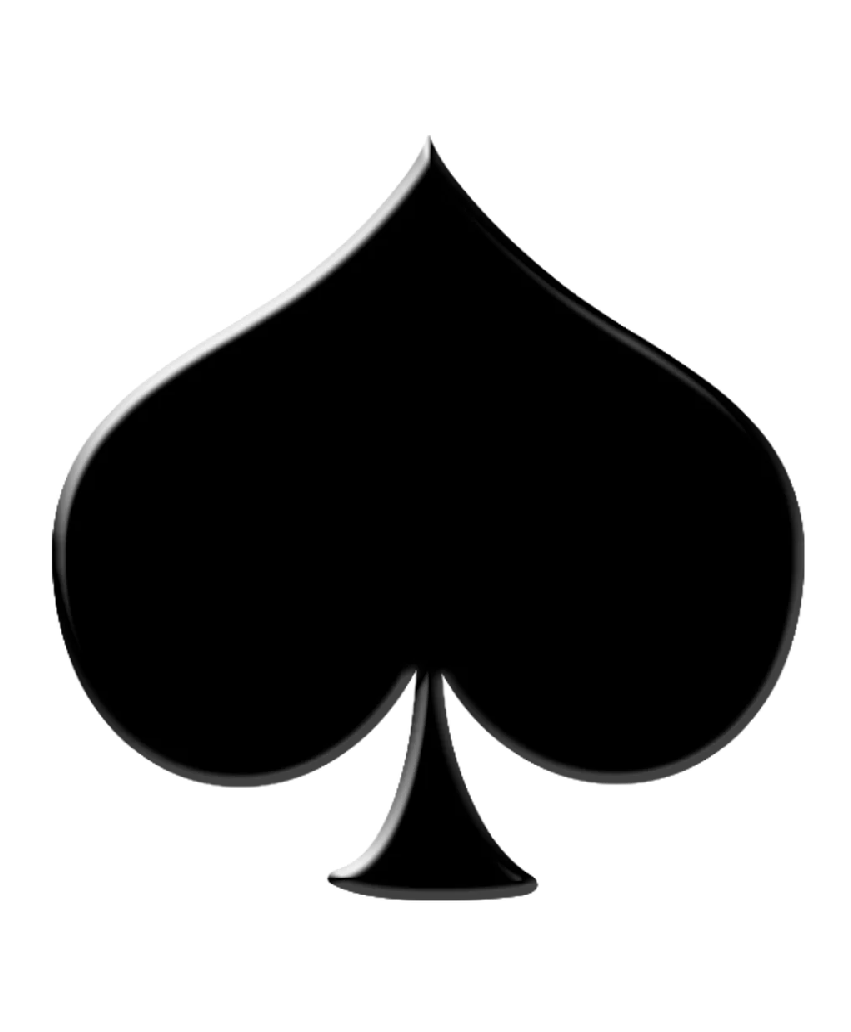
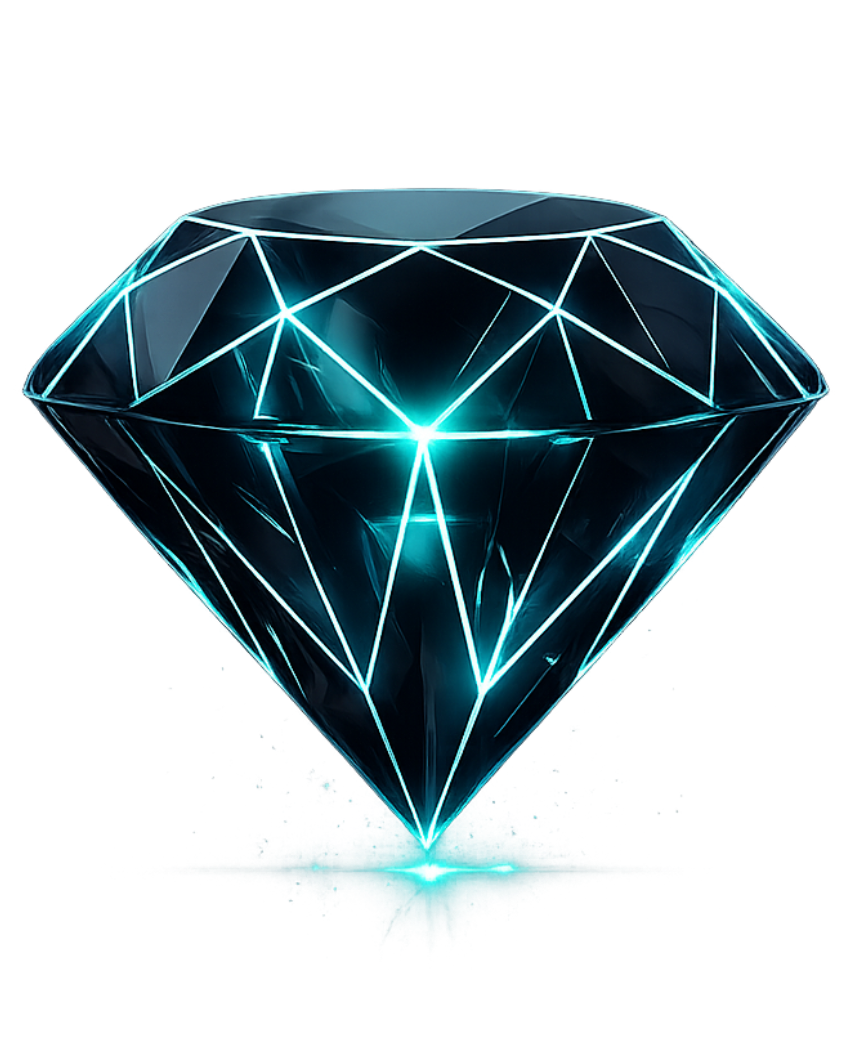
img

diff --git a/index.html b/index.html
@@ -89,10 +89,10 @@
       .home-actions {
         display: grid;
         grid-template-columns: repeat(2, minmax(0, 1fr));
-        gap: 1rem;
+        gap: 1.2rem;
         width: 100%;
         height: 100%;
-        padding: 1.2rem;
+        padding: 1.5rem 1.2rem;
         box-sizing: border-box;
       }
 
@@ -105,13 +105,17 @@
         width: 100%;
         min-height: 0;
         padding: 1rem;
-        border-radius: 28px;
+        border-radius: 16px;
         text-decoration: none;
         color: #f7f8fe;
-        background: rgba(255, 255, 255, 0.05);
-        border: 1px solid rgba(255, 255, 255, 0.09);
-        box-shadow: 0 18px 40px rgba(0, 0, 0, 0.22);
-        transition: background 0.2s ease, transform 0.2s ease, box-shadow 0.2s ease;
+        background: linear-gradient(135deg, rgba(255, 255, 255, 0.03), rgba(255, 255, 255, 0.01));
+        border: 2px solid;
+        border-color: rgba(212, 175, 55, 0.6);
+        box-shadow: 
+          0 0 25px rgba(212, 175, 55, 0.35),
+          inset 0 0 20px rgba(100, 180, 255, 0.08),
+          inset 0 1px 0 rgba(255, 255, 255, 0.1);
+        transition: all 0.3s cubic-bezier(0.4, 0, 0.2, 1);
         position: relative;
         overflow: hidden;
       }
@@ -121,7 +125,7 @@
         content: "";
         position: absolute;
         inset: 0;
-        background: linear-gradient(135deg, rgba(255,255,255,0.08), transparent 70%);
+        background: linear-gradient(135deg, rgba(255,255,255,0.06), transparent 70%);
         pointer-events: none;
       }
 
@@ -129,13 +133,41 @@
       .home-link:focus-visible,
       .link-pill:hover,
       .link-pill:focus-visible {
-        transform: translateY(-2px);
-        background: rgba(255, 255, 255, 0.1);
-        box-shadow: 0 24px 46px rgba(0, 0, 0, 0.28);
+        transform: translateY(-4px);
+        background: linear-gradient(135deg, rgba(255, 255, 255, 0.08), rgba(255, 255, 255, 0.04));
+        border-color: rgba(212, 175, 55, 0.8);
+        box-shadow: 
+          0 0 40px rgba(212, 175, 55, 0.6),
+          inset 0 0 30px rgba(100, 180, 255, 0.15),
+          inset 0 1px 0 rgba(255, 255, 255, 0.15);
       }
 
       .home-link--landing {
-        background: rgba(255, 20, 147, 0.2);
+        background: linear-gradient(135deg, rgba(138, 43, 226, 0.35), rgba(75, 0, 130, 0.25));
+        border-color: rgba(200, 100, 255, 0.8);
+        box-shadow: 
+          0 0 25px rgba(200, 100, 255, 0.4),
+          inset 0 0 20px rgba(138, 43, 226, 0.15),
+          inset 0 1px 0 rgba(255, 255, 255, 0.1);
+      }
+
+      .home-link--landing:hover {
+        background: linear-gradient(135deg, rgba(138, 43, 226, 0.5), rgba(75, 0, 130, 0.35));
+        border-color: rgba(200, 100, 255, 1);
+        box-shadow: 
+          0 0 40px rgba(200, 100, 255, 0.65),
+          inset 0 0 30px rgba(138, 43, 226, 0.2),
+          inset 0 1px 0 rgba(255, 255, 255, 0.15);
+      }
+
+      .landing-text {
+        position: relative;
+        z-index: 1;
+        font-weight: 700;
+        font-size: 0.9rem;
+        line-height: 1.2;
+        text-align: center;
+        letter-spacing: 0.05em;
       }
 
       .home-link .icon-bubble {
@@ -151,6 +183,17 @@
         border-radius: 50%;
         background: rgba(255,255,255,0.08);
         box-shadow: inset 0 1px 0 rgba(255,255,255,0.18);
+      }
+
+      .home-link .icon-image {
+        position: relative;
+        z-index: 1;
+        max-width: clamp(8rem, 20vw, 12rem);
+        max-height: clamp(8rem, 20vw, 12rem);
+        width: auto;
+        height: auto;
+        object-fit: contain;
+        object-position: center;
       }
 
       .link-pill .alt-emoji {
@@ -187,11 +230,23 @@
         flex-direction: column;
         align-items: center;
         justify-content: center;
-        gap: 0.2rem;
+        gap: 0.3rem;
         min-height: 8rem;
-        border-radius: 22px;
-        background: rgba(255, 255, 255, 0.04);
+        border-radius: 16px;
+        background: linear-gradient(135deg, rgba(255, 255, 255, 0.02), rgba(255, 255, 255, 0.01));
         padding: 0.8rem 1rem;
+        border: 2px solid rgba(100, 180, 255, 0.6);
+        box-shadow: 
+          0 0 20px rgba(100, 180, 255, 0.3),
+          inset 0 0 15px rgba(100, 180, 255, 0.08);
+      }
+      
+      .link-pill:hover,
+      .link-pill:focus-visible {
+        border-color: rgba(100, 180, 255, 0.9);
+        box-shadow: 
+          0 0 30px rgba(100, 180, 255, 0.5),
+          inset 0 0 20px rgba(100, 180, 255, 0.12);
       }
 
       .home-footer {
@@ -260,9 +315,109 @@
           padding: 0 1rem 1rem;
         }
       }
+
+      /* Blob Background Animation */
+      .blob-container {
+        position: fixed;
+        top: 0;
+        left: 0;
+        width: 100%;
+        height: 100%;
+        z-index: 0;
+        pointer-events: none;
+        overflow: hidden;
+      }
+
+      .blob {
+        position: absolute;
+        filter: blur(80px);
+        opacity: 0.3;
+      }
+
+      .blob-1 {
+        width: 500px;
+        height: 500px;
+        background: radial-gradient(circle at 30% 40%, rgba(100, 180, 255, 1), rgba(100, 180, 255, 0.15) 70%);
+        border-radius: 40% 60% 70% 30% / 40% 50% 60% 50%;
+        top: -20%;
+        left: -10%;
+        animation: blob-float-1 8s ease-in-out infinite;
+      }
+
+      .blob-2 {
+        width: 400px;
+        height: 400px;
+        background: radial-gradient(circle at 30% 40%, rgba(138, 43, 226, 0.8), rgba(138, 43, 226, 0.1) 70%);
+        border-radius: 60% 40% 30% 70% / 60% 30% 70% 40%;
+        top: 50%;
+        right: -5%;
+        animation: blob-float-2 10s ease-in-out infinite;
+      }
+
+      .blob-3 {
+        width: 350px;
+        height: 350px;
+        background: radial-gradient(circle at 30% 40%, rgba(212, 175, 55, 0.7), rgba(212, 175, 55, 0.1) 70%);
+        border-radius: 30% 70% 70% 30% / 30% 30% 70% 70%;
+        bottom: -10%;
+        left: 40%;
+        animation: blob-float-3 12s ease-in-out infinite;
+      }
+
+      @keyframes blob-float-1 {
+        0%, 100% {
+          transform: translate(0, 0) rotate(0deg);
+        }
+        25% {
+          transform: translate(80px, -120px) rotate(90deg);
+        }
+        50% {
+          transform: translate(-100px, 80px) rotate(180deg);
+        }
+        75% {
+          transform: translate(-120px, -100px) rotate(270deg);
+        }
+      }
+
+      @keyframes blob-float-2 {
+        0%, 100% {
+          transform: translate(0, 0) rotate(0deg);
+        }
+        25% {
+          transform: translate(-100px, 90px) rotate(-90deg);
+        }
+        50% {
+          transform: translate(110px, -120px) rotate(-180deg);
+        }
+        75% {
+          transform: translate(90px, 100px) rotate(-270deg);
+        }
+      }
+
+      @keyframes blob-float-3 {
+        0%, 100% {
+          transform: translate(0, 0) rotate(0deg);
+        }
+        33% {
+          transform: translate(120px, -80px) rotate(120deg);
+        }
+        66% {
+          transform: translate(-110px, 100px) rotate(240deg);
+        }
+      }
+
+      main {
+        position: relative;
+        z-index: 1;
+      }
     </style>
   </head>
   <body class="settings-page">
+    <div class="blob-container">
+      <div class="blob blob-1"></div>
+      <div class="blob blob-2"></div>
+      <div class="blob blob-3"></div>
+    </div>
     <main class="home-shell">
       <div class="home-phone">
         <section class="home-card" aria-labelledby="home-title">
@@ -273,10 +428,10 @@
           </div>
           <p class="home-section-label">Acciones rápidas</p>
           <div class="home-actions">
-            <a class="home-link" href="./settings.html" aria-label="Configuración"><span class="icon-bubble">⚙️</span></a>
-            <a class="home-link" href="./analytics.html" aria-label="Analytics"><span class="icon-bubble">📊</span></a>
-            <a class="home-link home-link--landing" href="https://landing-vip24hs.vercel.app" target="_blank" rel="noopener noreferrer" aria-label="Landing"><span class="icon-bubble">🌐</span></a>
-            <a class="home-link" href="#" aria-label="Más"><span class="icon-bubble">💎</span></a>
+            <a class="home-link" href="./settings.html" aria-label="Configuración"><img src="./img/buttons/Settings.png" alt="Configuración" class="icon-image"></a>
+            <a class="home-link" href="./analytics.html" aria-label="Analytics"><img src="./img/buttons/Analytics.png" alt="Analytics" class="icon-image"></a>
+            <a class="home-link home-link--landing" href="https://landing-vip24hs.vercel.app" target="_blank" rel="noopener noreferrer" aria-label="Landing"><img src="./img/buttons/Landing.png" alt="Landing" class="icon-image"></a>
+            <a class="home-link" href="#" aria-label="Más"><img src="./img/buttons/VIP.png" alt="VIP" class="icon-image"></a>
           </div>
         </section>
 